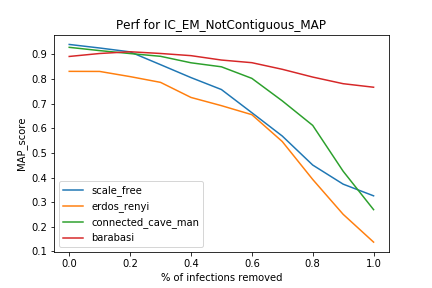
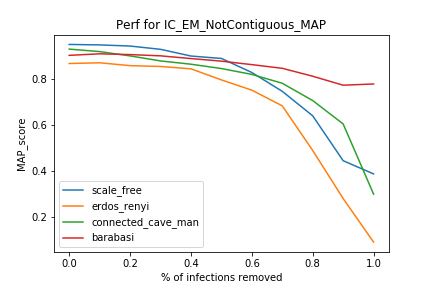
Update results, more cascades

diff --git a/IC_SAITO/src/IC_EM_Saito2008.py b/IC_SAITO/src/IC_EM_Saito2008.py
@@ -10,7 +10,7 @@ from scipy.sparse import dok_matrix
 
 class IC_EM_Saito2008(BaseEstimator):
     
-    def __init__(self,nodes=[0],threshold = 10**(-1)):
+    def __init__(self,nodes=[0],threshold = 10**(-2)):
         self.nodes = nodes
         self.threshold=threshold
         
@@ -18,7 +18,7 @@ class IC_EM_Saito2008(BaseEstimator):
         D = [csc.CascadeToTimeRepr(c) for c in C]
         self.EM_IC(C,D)
         
-    def set_params(self,nodes,threshold = 10**(-1)):
+    def set_params(self,nodes,threshold = 10**(-2)):
         self.threshold=threshold
         self.nodes = nodes
     
@@ -42,14 +42,12 @@ class IC_EM_Saito2008(BaseEstimator):
             p_sw = self.Expectation(self.graph,D,C)
             next_g = self.Maximisation(self.graph,D_plus_id,D_minus_len,p_sw)
             loop = Metrics.SSE(self.graph,next_g)  > self.threshold
-            #print(change)
             self.graph = next_g
             if debug : 
                 new_ll = self.llikelyhood(self.graph,C,D)
                 if new_ll < ll : 
                     raise Exception(f"Likelyhood Error : descreasing : from {ll} to {new_ll}")
                 ll = new_ll
-        #print("ll: ",ll)
         return self.graph
 
     def Expectation(self,g,D,C):

diff --git a/IC_SAITO/src/GraphsTest.py b/IC_SAITO/src/GraphsTest.py
@@ -120,6 +120,8 @@ def generateGraphs():
         nx.draw_networkx(g,with_labels=False,node_size=30)
         plt.savefig(DATA_PATH+t+'_g')
         plt.show()
+        
+    #return {"bara" : bara_dok}
     return dict(zip(graphs_titles,graphs_dok))
 
 def launch_test(models,graph_dict,nbCascades,metrics):
@@ -160,7 +162,7 @@ def main():
     models=  [IC_EM_Saito2008(),
               IC_EM_NotContiguous()]
     graph_dict = generateGraphs()
-    launch_test(models,graph_dict,500,metrics)
+    launch_test(models,graph_dict,1500,metrics)
    
     print("End \nTest duration : " ,time.time()-start_time)
 

diff --git a/IC_SAITO/src/Metrics.py b/IC_SAITO/src/Metrics.py
@@ -38,7 +38,7 @@ def Pws_gs(graph,sources,nbEpisode=500):
 def AP(U_d,DsNodeSet):
     '''Average Precision pour un episode Ds '''
     ap =0
-    tp = 0
+    tp = 0 # true positive
     for i,node in enumerate(U_d) : 
         if (node in DsNodeSet):
             tp+=1

diff --git a/IC_SAITO/data/eval/MAP.md b/IC_SAITO/data/eval/MAP.md
@@ -1,5 +1,5 @@
 |                     |   scale_free |   erdos_renyi |   connected_cave_man |   barabasi |
 |:--------------------|-------------:|--------------:|---------------------:|-----------:|
-| IC_EM_Saito2008     |     0.932048 |      0.832114 |             0.933914 |   0.910368 |
-| IC_EM_NotContiguous |     0.940792 |      0.831434 |             0.929024 |   0.891969 |
-| original            |     0.924822 |      0.829797 |             0.93239  |   0.910568 |
+| IC_EM_Saito2008     |     0.946697 |      0.866824 |             0.933701 |   0.90975  |
+| IC_EM_NotContiguous |     0.947979 |      0.865169 |             0.927709 |   0.900689 |
+| original            |     0.941256 |      0.868707 |             0.932154 |   0.910174 |

diff --git a/IC_SAITO/data/eval/MSE.md b/IC_SAITO/data/eval/MSE.md
@@ -1,4 +1,4 @@
 |                     |   scale_free |   erdos_renyi |   connected_cave_man |    barabasi |
 |:--------------------|-------------:|--------------:|---------------------:|------------:|
-| IC_EM_Saito2008     |   0.00076981 |   0.000305587 |          0.000618699 | 0.000302288 |
-| IC_EM_NotContiguous |   0.00462008 |   0.000657692 |          0.00700983  | 0.0102686   |
+| IC_EM_Saito2008     |  0.000266058 |   0.000108485 |          0.000242304 | 0.000216802 |
+| IC_EM_NotContiguous |  0.000694455 |   0.000314537 |          0.00499112  | 0.00694934  |

diff --git a/IC_SAITO/data/eval/fit_time.md b/IC_SAITO/data/eval/fit_time.md
@@ -1,4 +1,4 @@
 |                     |   scale_free |   erdos_renyi |   connected_cave_man |   barabasi |
 |:--------------------|-------------:|--------------:|---------------------:|-----------:|
-| IC_EM_Saito2008     |      1.1292  |       2.21677 |              3.14518 |    17.7801 |
-| IC_EM_NotContiguous |      2.63075 |       9.08386 |             16.4362  |    94.44   |
+| IC_EM_Saito2008     |      2.66528 |       3.15459 |              16.5709 |    78.2537 |
+| IC_EM_NotContiguous |      4.40963 |       6.9308  |             146.926  |   333.362  |
